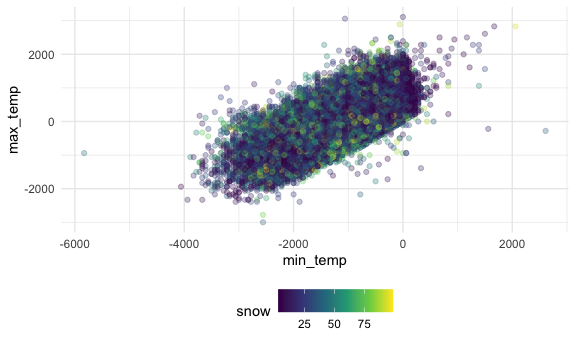
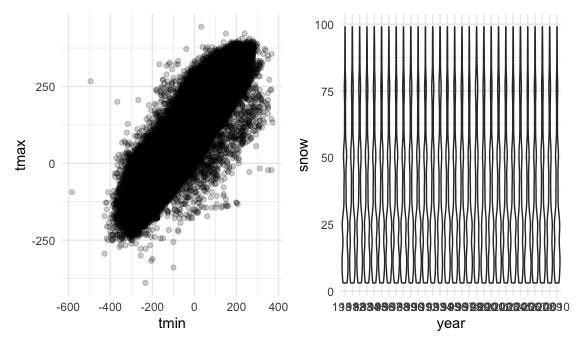
finished hw3

diff --git a/p8105_sk4970_hw3.md b/p8105_sk4970_hw3.md
@@ -13899,7 +13899,7 @@ accel = read_csv(file = "./accel_data.csv") %>%
 # importing data
 data("ny_noaa")
 
-# cleaning up data including separating date variable, making preciption in mm and temps to degrees C)
+# cleaning up data including separating date variable, making preciption in mm
 noaa = 
   ny_noaa %>% 
   as_tibble(ny_noaa) %>%
@@ -13908,11 +13908,9 @@ noaa =
   separate(col = date, into = c('year','month', 'day'), sep = '-')  %>%
   mutate(perc = prcp * 10) %>%
   mutate(tmax = as.numeric(tmax)) %>%
-  mutate(tmin = as.numeric(tmin)) %>%
-  mutate(max_temp = tmax * 10) %>%
-  mutate(min_temp = tmin * 10) 
+  mutate(tmin = as.numeric(tmin)) 
   
-## there are many missing values for some measurements so I removed them. There are 12 variables and over 1 million observations. Preciption, snowfall, and snow depth are all in mm. Temps are in degrees C. 
+## there are many missing values for some measurements so I removed them. There are 12 variables and over 1 million observations. Preciption, snowfall, and snow depth are all in mm. Temps are in tenth of degrees C. 
 
 
 sort(table('snow'), decreasing = TRUE)
@@ -13931,7 +13929,7 @@ sort(table('snow'), decreasing = TRUE)
     month == "January",
     month == "July") %>% 
   summarize(
-    tmax_mean = mean(max_temp, na.rm = TRUE), .groups = 'drop'
+    tmax_mean = mean(tmax, na.rm = TRUE), .groups = 'drop'
   ) %>% 
   ggplot(aes(x = year, y = tmax_mean, group = id)) +
   geom_line(alpha = 0.5) +
@@ -13944,32 +13942,18 @@ sort(table('snow'), decreasing = TRUE)
 ## There is a higher max temp in July. There are some outliers in January.
   
 # two-panel plot with tmax vs. tmix and plot showing 0 > snowfall < 100 by year
-  noaa %>%
-    group_by(year) %>%
+  tmax_tmin = 
+    noaa %>%
+    ggplot(aes(x = tmin, y = tmax)) +
+    geom_point(alpha = .2) 
+  
+  snow_year = 
+    noaa %>%
     filter(snow > 0 & snow < 100) %>%
-  ggplot(aes(x = min_temp, y = max_temp)) +
-    geom_point(aes(color = snow), alpha = 0.3)
+    ggplot(aes(x = year, y = snow), color = snow) +
+    geom_violin()
+
+  tmax_tmin + snow_year
 ```
 
 <img src="p8105_sk4970_hw3_files/figure-gfm/unnamed-chunk-8-2.png" width="90%" />
-
-``` r
-    facet_grid(. ~ year)
-```
-
-    ## <ggproto object: Class FacetGrid, Facet, gg>
-    ##     compute_layout: function
-    ##     draw_back: function
-    ##     draw_front: function
-    ##     draw_labels: function
-    ##     draw_panels: function
-    ##     finish_data: function
-    ##     init_scales: function
-    ##     map_data: function
-    ##     params: list
-    ##     setup_data: function
-    ##     setup_params: function
-    ##     shrink: TRUE
-    ##     train_scales: function
-    ##     vars: function
-    ##     super:  <ggproto object: Class FacetGrid, Facet, gg>
